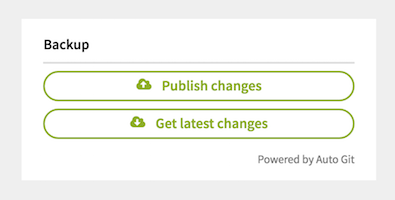
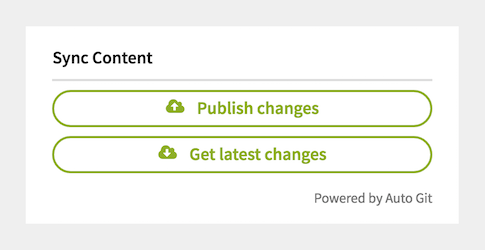
Change widget title to "Sync Content"

diff --git a/lib/widgets/autogit.php b/lib/widgets/autogit.php
@@ -1,7 +1,7 @@
 <?php
 
 return array(
-  'title' => 'Backup',
+  'title' => 'Sync Content',
   'html' => function() {
     return tpl::load(__DIR__ . DS . 'template.php');
   },

diff --git a/changelog.md b/changelog.md
@@ -5,6 +5,9 @@ All notable changes to this project will be documented in this file.
 ### Added
 - Warn user when a remote repo has not been setup yet.
 
+### Changed
+- Widget title to "Sync Content"
+
 ## [0.4.0] - 2016-07-13
 ### Added
 - Panel widget with pull/push buttons.
